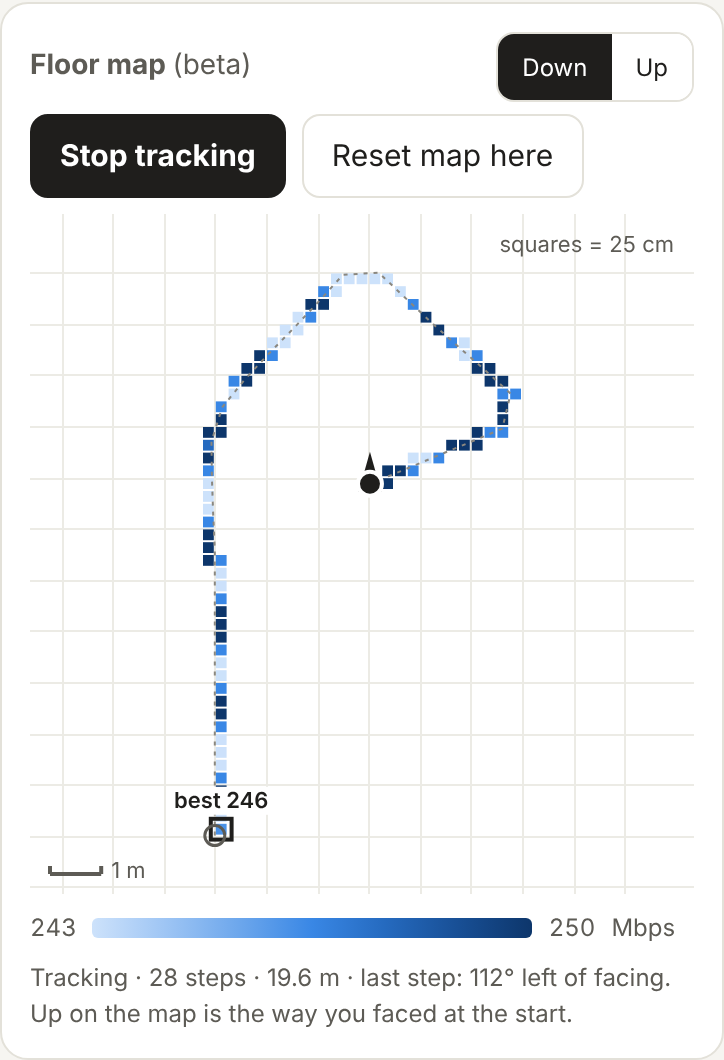
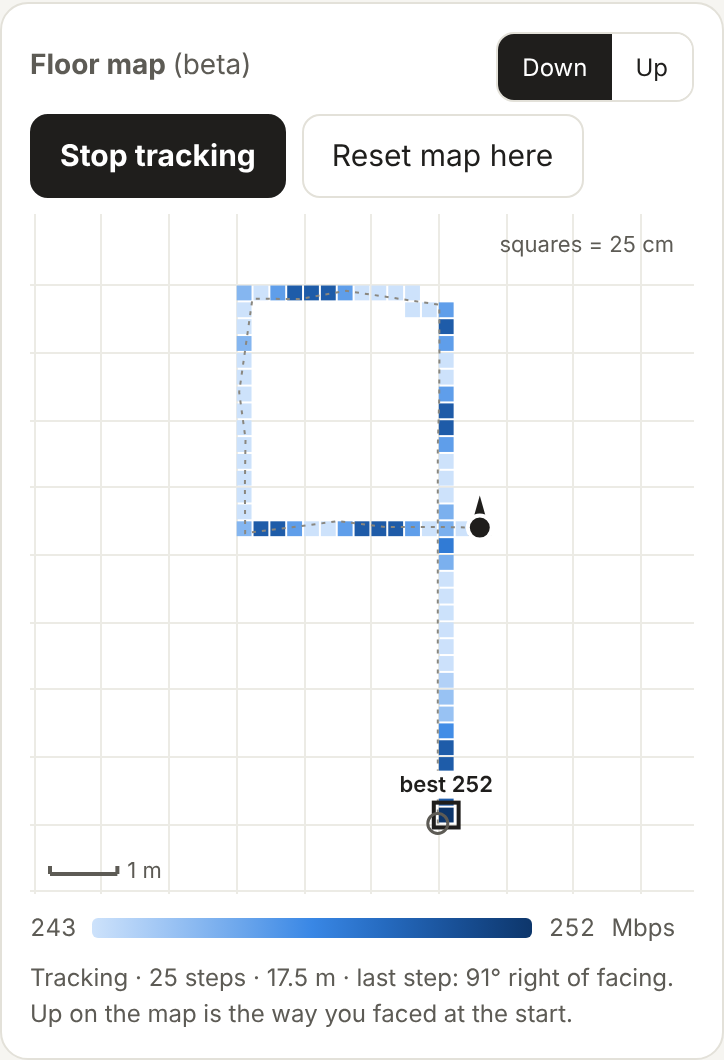
Floor map: track in room coordinates using full 3D orientation
- Step detection uses world-frame vertical acceleration (device
  acceleration rotated by alpha/beta/gamma), so tilting or turning the
  phone no longer leaks gravity into it
- Steps only count as part of a walking rhythm; single bumps from
  lifting, lowering or tilting the phone are ignored
- Step direction is taken directly in world coordinates instead of
  relative to the phone, so changing how the phone is held mid-walk
  doesn't bend the path; calibration now only resolves sensor sign

Claude-Session: https://claude.ai/code/session_01GWUhVJXQ53LJuCYRngp3u4

Changed region(s): [[0.0304, 0.2179, 0.942, 0.8406], [0.3646, 0.8717, 0.942, 0.934], [0.2127, 0.9028, 0.2431, 0.934]]

diff --git a/index.html b/index.html
@@ -558,9 +558,9 @@
     heading: NaN, headingRef: NaN, needRef: true, frameStale: false,
     hist: [{ t: Date.now(), x: 0, y: 0 }], lastPos: null,
     cells: new Map(), path: [{ x: 0, y: 0 }],
-    g: [0, 0, 0], gInit: false, vs: 0, armed: true, lastStepT: 0,
-    R: null, accSign: 1, eb: null, ls: null, prevZ: null, lastT: 0, dirAcc: [0, 0, 0], prevAcc: [0, 0, 0],
-    cal: { n: 0, x: 0, y: 0, offset: 0 }, lastDir: '', lastRel: 0, lastRelT: 0,
+    g: [0, 0, 0], gInit: false, vs: 0, armed: true, lastPeakT: -1e9, walking: false, signVote: 0,
+    R: null, eb: null, ls: null, prevZ: null, lastT: 0, dirAcc: [0, 0, 0], prevAcc: [0, 0, 0],
+    cal: { n: 0, s: 0, sign: 1 }, lastDir: '', lastWorld: 0, lastDirT: 0,
     gotMotion: false, gotOrient: false, hover: null
   };
   const fmt = v => !Number.isFinite(v) ? '–' : v >= 100 ? v.toFixed(0) : v >= 10 ? v.toFixed(1) : v.toFixed(2);
@@ -612,35 +612,53 @@
     const v = [a.x, a.y, a.z];
     if (!M.gInit) { M.g = v.slice(); M.gInit = true; return; }
     for (let i = 0; i < 3; i++) M.g[i] += 0.02 * (v[i] - M.g[i]);
-    const gm = Math.hypot(M.g[0], M.g[1], M.g[2]) || 1;
-    const vert = ((v[0] - M.g[0]) * M.g[0] + (v[1] - M.g[1]) * M.g[1] + (v[2] - M.g[2]) * M.g[2]) / gm;
-    M.vs += 0.3 * (vert - M.vs);
     const now = performance.now();
-    trackDirection(v, now);
-    if (M.armed && M.vs > 0.9 && now - M.lastStepT > 280) { M.armed = false; M.lastStepT = now; step(); }
-    else if (!M.armed && M.vs < -0.3) M.armed = true;
+    // Vertical acceleration in room coordinates, using the phone's full 3D orientation, so tilting
+    // or turning the phone doesn't leak gravity into it. Falls back to a gravity estimate only
+    // if the browser gives no orientation.
+    let vert = worldMotion(v, now);
+    if (vert === undefined) {
+      const gm = Math.hypot(M.g[0], M.g[1], M.g[2]) || 1;
+      const raw = ((v[0] - M.g[0]) * M.g[0] + (v[1] - M.g[1]) * M.g[1] + (v[2] - M.g[2]) * M.g[2]) / gm;
+      M.vs += 0.3 * (raw - M.vs); vert = M.vs;
+    }
+    if (M.armed && vert > 0.9 && now - M.lastPeakT > 250) { M.armed = false; stepCandidate(now); }
+    else if (!M.armed && vert < -0.3) M.armed = true;
+  }
+
+  // A bump only counts as a step when it's part of a walking rhythm (another bump 0.25-1.3 s away).
+  // Lifting, lowering or flicking the phone gives one isolated bump, which is ignored.
+  function stepCandidate(now) {
+    const gap = now - M.lastPeakT; M.lastPeakT = now;
+    if (gap >= 250 && gap <= 1300) {
+      if (!M.walking) { M.walking = true; step(); }   // the bump that started this walk
+      step();
+    } else {
+      M.walking = false;                              // possible first step: wait for the next one
+      M.dirAcc = [0, 0, 0]; M.prevAcc = [0, 0, 0];
+    }
   }
 
   // ---- Which way was the step? ----
   // Walking works like an inverted pendulum: the body speeds up in the direction of travel while
   // vertical acceleration is rising. So summing (horizontal acceleration × rate of change of
-  // vertical acceleration) over a stride gives a vector pointing the way you moved, whichever
-  // way the phone faces. That direction is sorted into forward/right/back/left relative to the
-  // phone, then the phone's (much steadier) heading is used for the exact angle.
-  function trackDirection(v, now) {
-    const R = M.R; if (!R) return;
-    // Some browsers report acceleration with the opposite sign: check against "up" from orientation.
+  // vertical acceleration) over a stride gives a vector pointing the way you moved. Everything is
+  // in room coordinates, so it doesn't matter how the phone is held, tilted or turned.
+  function worldMotion(v, now) {
+    const R = M.R; if (!R) return undefined;
+    // Some browsers report acceleration with the opposite sign: vote against "up" from orientation.
     const upDot = M.g[0] * R[6] + M.g[1] * R[7] + M.g[2] * R[8];
-    if (Math.abs(upDot) > 5) M.accSign = upDot >= 0 ? 1 : -1;
-    const s = M.accSign;
+    if (Math.abs(upDot) > 5) M.signVote = Math.max(-50, Math.min(50, M.signVote + (upDot > 0 ? 1 : -1)));
+    const s = M.signVote >= 0 ? 1 : -1;
     const ax = v[0] * s, ay = v[1] * s, az = v[2] * s;
     const e = [R[0] * ax + R[1] * ay + R[2] * az, R[3] * ax + R[4] * ay + R[5] * az, R[6] * ax + R[7] * ay + R[8] * az];
-    if (!M.eb) { M.eb = e.slice(); M.ls = [0, 0, 0]; M.lastT = now; return; }
+    if (!M.eb) { M.eb = [0, 0, e[2]]; M.ls = [0, 0, 0]; M.lastT = now; return 0; }
     for (let i = 0; i < 3; i++) { M.eb[i] += 0.02 * (e[i] - M.eb[i]); M.ls[i] += 0.3 * ((e[i] - M.eb[i]) - M.ls[i]); }
     const dt = Math.max(0.005, Math.min(0.1, (now - M.lastT) / 1000)); M.lastT = now;
     const dz = (M.ls[2] - (M.prevZ ?? M.ls[2])) / dt; M.prevZ = M.ls[2];
     M.dirAcc[0] += M.ls[0] * dz * dt; M.dirAcc[1] += M.ls[1] * dz * dt;
     M.dirAcc[2] += Math.hypot(M.ls[0], M.ls[1]) * Math.abs(dz) * dt;
+    return M.ls[2];
   }
   const wrap = a => Math.atan2(Math.sin(a), Math.cos(a));
   const dirLabel = d => {
@@ -648,32 +666,33 @@
     return deg <= 10 ? 'straight ahead' : deg >= 170 ? 'straight back' : `${deg}° ${d > 0 ? 'right' : 'left'} of facing`;
   };
   const CAL_STEPS = 8;
-  // Returns the step's movement angle relative to the phone's heading (radians, clockwise positive).
-  function stepOffset() {
+  // Returns the direction this step moved, in room coordinates (radians, clockwise positive).
+  function stepDirection() {
     const cur = M.dirAcc; M.dirAcc = [0, 0, 0];
     const win = [cur[0] + M.prevAcc[0], cur[1] + M.prevAcc[1], cur[2] + M.prevAcc[2]];   // two steps = one stride
     M.prevAcc = cur;
-    if (!$('optSide').checked || !Number.isFinite(M.heading)) { M.lastDir = 'forward'; return 0; }
+    const facing = M.heading;
+    if (!$('optSide').checked) { M.lastDir = 'straight ahead'; return facing; }
     const conf = win[2] > 0 ? Math.hypot(win[0], win[1]) / win[2] : 0;
     if (conf < 0.2) {                              // weak signal: keep the last confident direction briefly
-      const recent = performance.now() - M.lastRelT < 2000;
-      M.lastDir = (recent ? dirLabel(M.lastRel) : 'straight ahead') + ' (unsure)';
-      return recent ? M.lastRel : 0;
+      const recent = performance.now() - M.lastDirT < 2000;
+      M.lastDir = (recent ? dirLabel(wrap(M.lastWorld - facing)) : 'straight ahead') + ' (unsure)';
+      return recent ? M.lastWorld : facing;
     }
-    const rel = wrap(Math.atan2(win[0], win[1]) - M.heading);
-    if (M.cal.n < CAL_STEPS) {                     // learn this phone's bias from normal forward walking
-      M.cal.x += Math.sin(rel); M.cal.y += Math.cos(rel); M.cal.n++;
-      if (M.cal.n === CAL_STEPS) M.cal.offset = Math.atan2(M.cal.x, M.cal.y);
-      M.lastDir = 'forward (calibrating)'; return 0;
+    let dir = Math.atan2(win[0], win[1]);
+    if (M.cal.n < CAL_STEPS) {                     // confirm which way round this phone's readings are
+      M.cal.s += Math.cos(wrap(dir - facing)); M.cal.n++;
+      if (M.cal.n === CAL_STEPS) M.cal.sign = M.cal.s >= 0 ? 1 : -1;
+      M.lastDir = 'straight ahead (calibrating)'; return facing;
     }
-    const d = wrap(rel - M.cal.offset);
-    M.lastRel = d; M.lastRelT = performance.now();
-    M.lastDir = dirLabel(d);
-    return d;
+    if (M.cal.sign < 0) dir = wrap(dir + Math.PI);
+    M.lastWorld = dir; M.lastDirT = performance.now();
+    M.lastDir = dirLabel(wrap(dir - facing));
+    return dir;
   }
   function step() {
     if (!Number.isFinite(M.heading) || !Number.isFinite(M.headingRef)) return;
-    const L = stepLen(), h = M.heading + stepOffset() - M.headingRef;
+    const L = stepLen(), h = stepDirection() - M.headingRef;
     M.x += L * Math.sin(h); M.y += L * Math.cos(h);
     M.steps++; M.dist += L;
     M.hist.push({ t: Date.now(), x: M.x, y: M.y });
@@ -744,7 +763,8 @@
     } catch (e) { status('Couldn\'t get motion access: ' + (e.message || e)); return; }
     if (M.frameStale) resetMap();
     M.gInit = false; M.needRef = !Number.isFinite(M.headingRef); M.lastPos = null;
-    M.eb = null; M.prevZ = null; M.dirAcc = [0, 0, 0]; M.prevAcc = [0, 0, 0]; M.cal = { n: 0, x: 0, y: 0, offset: 0 }; M.lastDir = '';
+    M.eb = null; M.prevZ = null; M.dirAcc = [0, 0, 0]; M.prevAcc = [0, 0, 0]; M.cal = { n: 0, s: 0, sign: 1 }; M.lastDir = '';
+    M.walking = false; M.lastPeakT = -1e9; M.signVote = 0;
     M.hist.push({ t: Date.now(), x: M.x, y: M.y });
     addEventListener('devicemotion', onMotion); addEventListener('deviceorientation', onOrient);
     M.tracking = true; $('mapTrackBtn').textContent = 'Stop tracking'; status();

diff --git a/README.md b/README.md
@@ -19,10 +19,13 @@ of the distance walked; walk back to the start point to see how far it has drift
 direction you faced when you pressed Start tracking / Reset map. The best square (at least
 2 s of readings) is outlined.
 
-Sideways and backward steps are detected from the phone's acceleration (body acceleration in the
-direction of travel lines up with the rise in vertical acceleration on each step), giving each
-stride's angle relative to where the phone points, at any angle, not just forward/back/left/right. It calibrates on your first
-8 steps, so walk forward normally right after pressing Start tracking. You can turn this off in Settings.
+Step direction is measured in room coordinates using the phone's full 3D orientation: body
+acceleration in the direction of travel lines up with the rise in vertical acceleration on each
+step, so each stride gives a direction at any angle, however the phone is held, tilted or turned.
+Steps are found from true vertical acceleration (again via 3D orientation), and a bump only counts
+when it's part of a walking rhythm, so lifting, lowering or tilting the phone doesn't add steps.
+The first 8 steps confirm which way round the phone's sensor readings are, so walk forward normally
+right after pressing Start tracking. Direction detection can be turned off in Settings.
 
 Traffic goes to Cloudflare's public speed-test endpoints (`speed.cloudflare.com/__down` and `/__up`).
 
